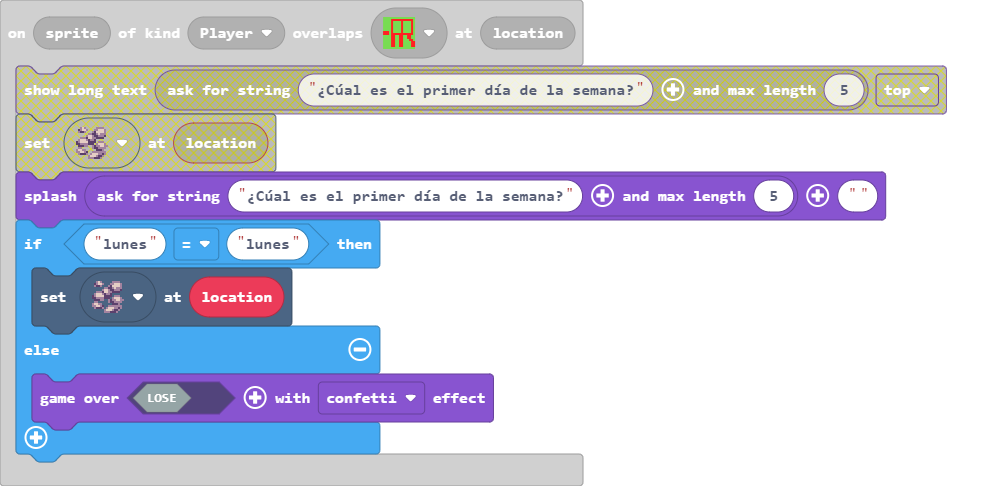
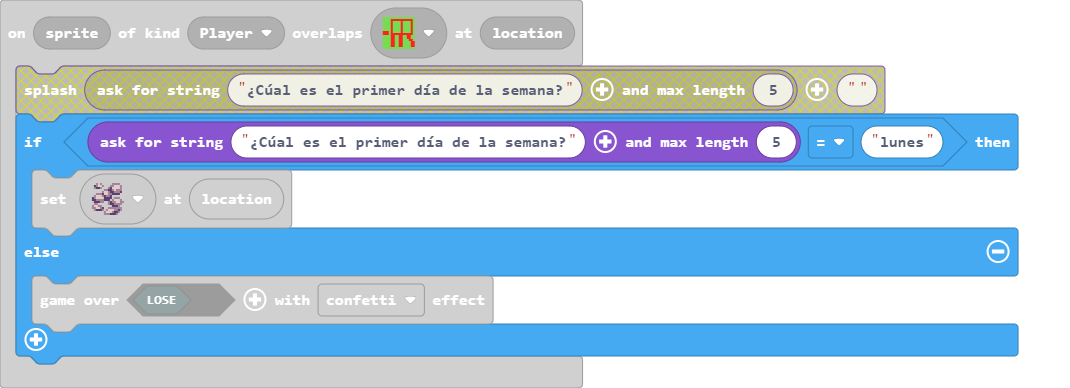
Update main.blocks, main.ts

diff --git a/main.ts b/main.ts
@@ -5,8 +5,7 @@ scene.onOverlapTile(SpriteKind.Player, sprites.castle.rock1, function (sprite, l
     mySprite.say("Sobrevivir, pero supervivencia", 5000)
 })
 scene.onOverlapTile(SpriteKind.Player, myTiles.tile4, function (sprite, location) {
-    game.splash(game.askForString("¿Cúal es el primer día de la semana?", 5))
-    if ("lunes" == "lunes") {
+    if (game.askForString("¿Cúal es el primer día de la semana?", 5) == "lunes") {
         tiles.setTileAt(location, sprites.castle.rock2)
     } else {
         game.over(false)
